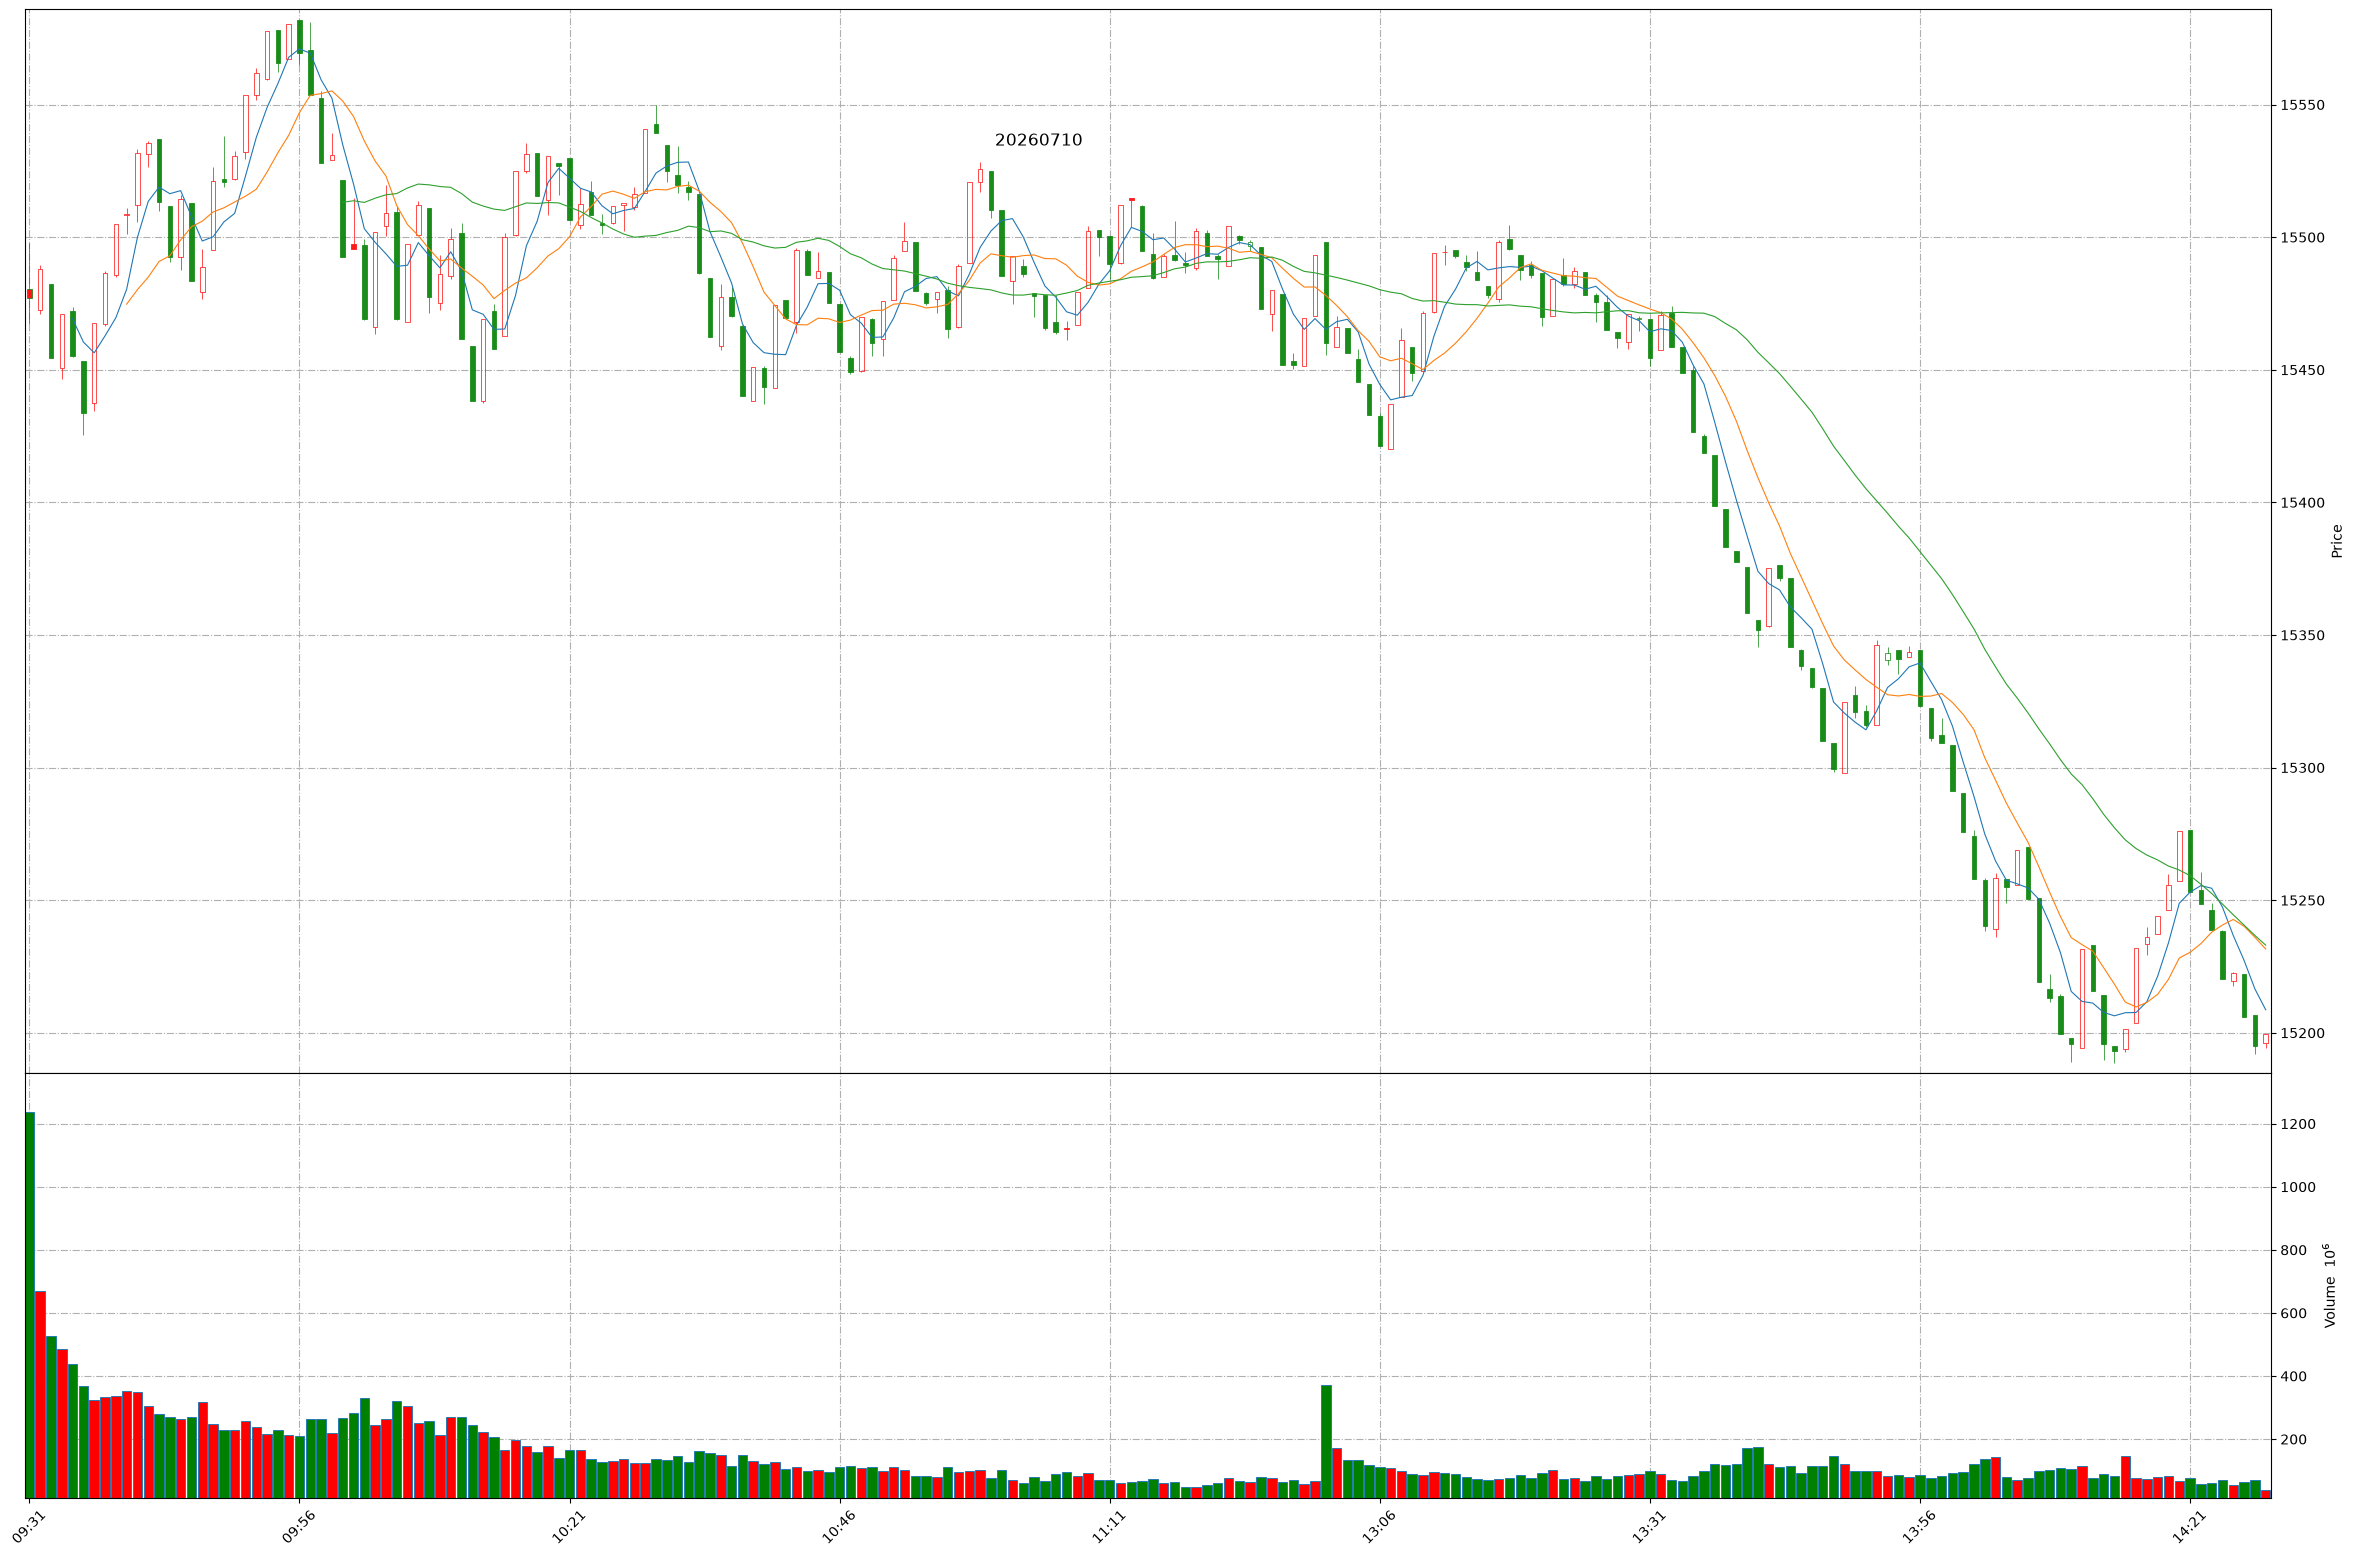
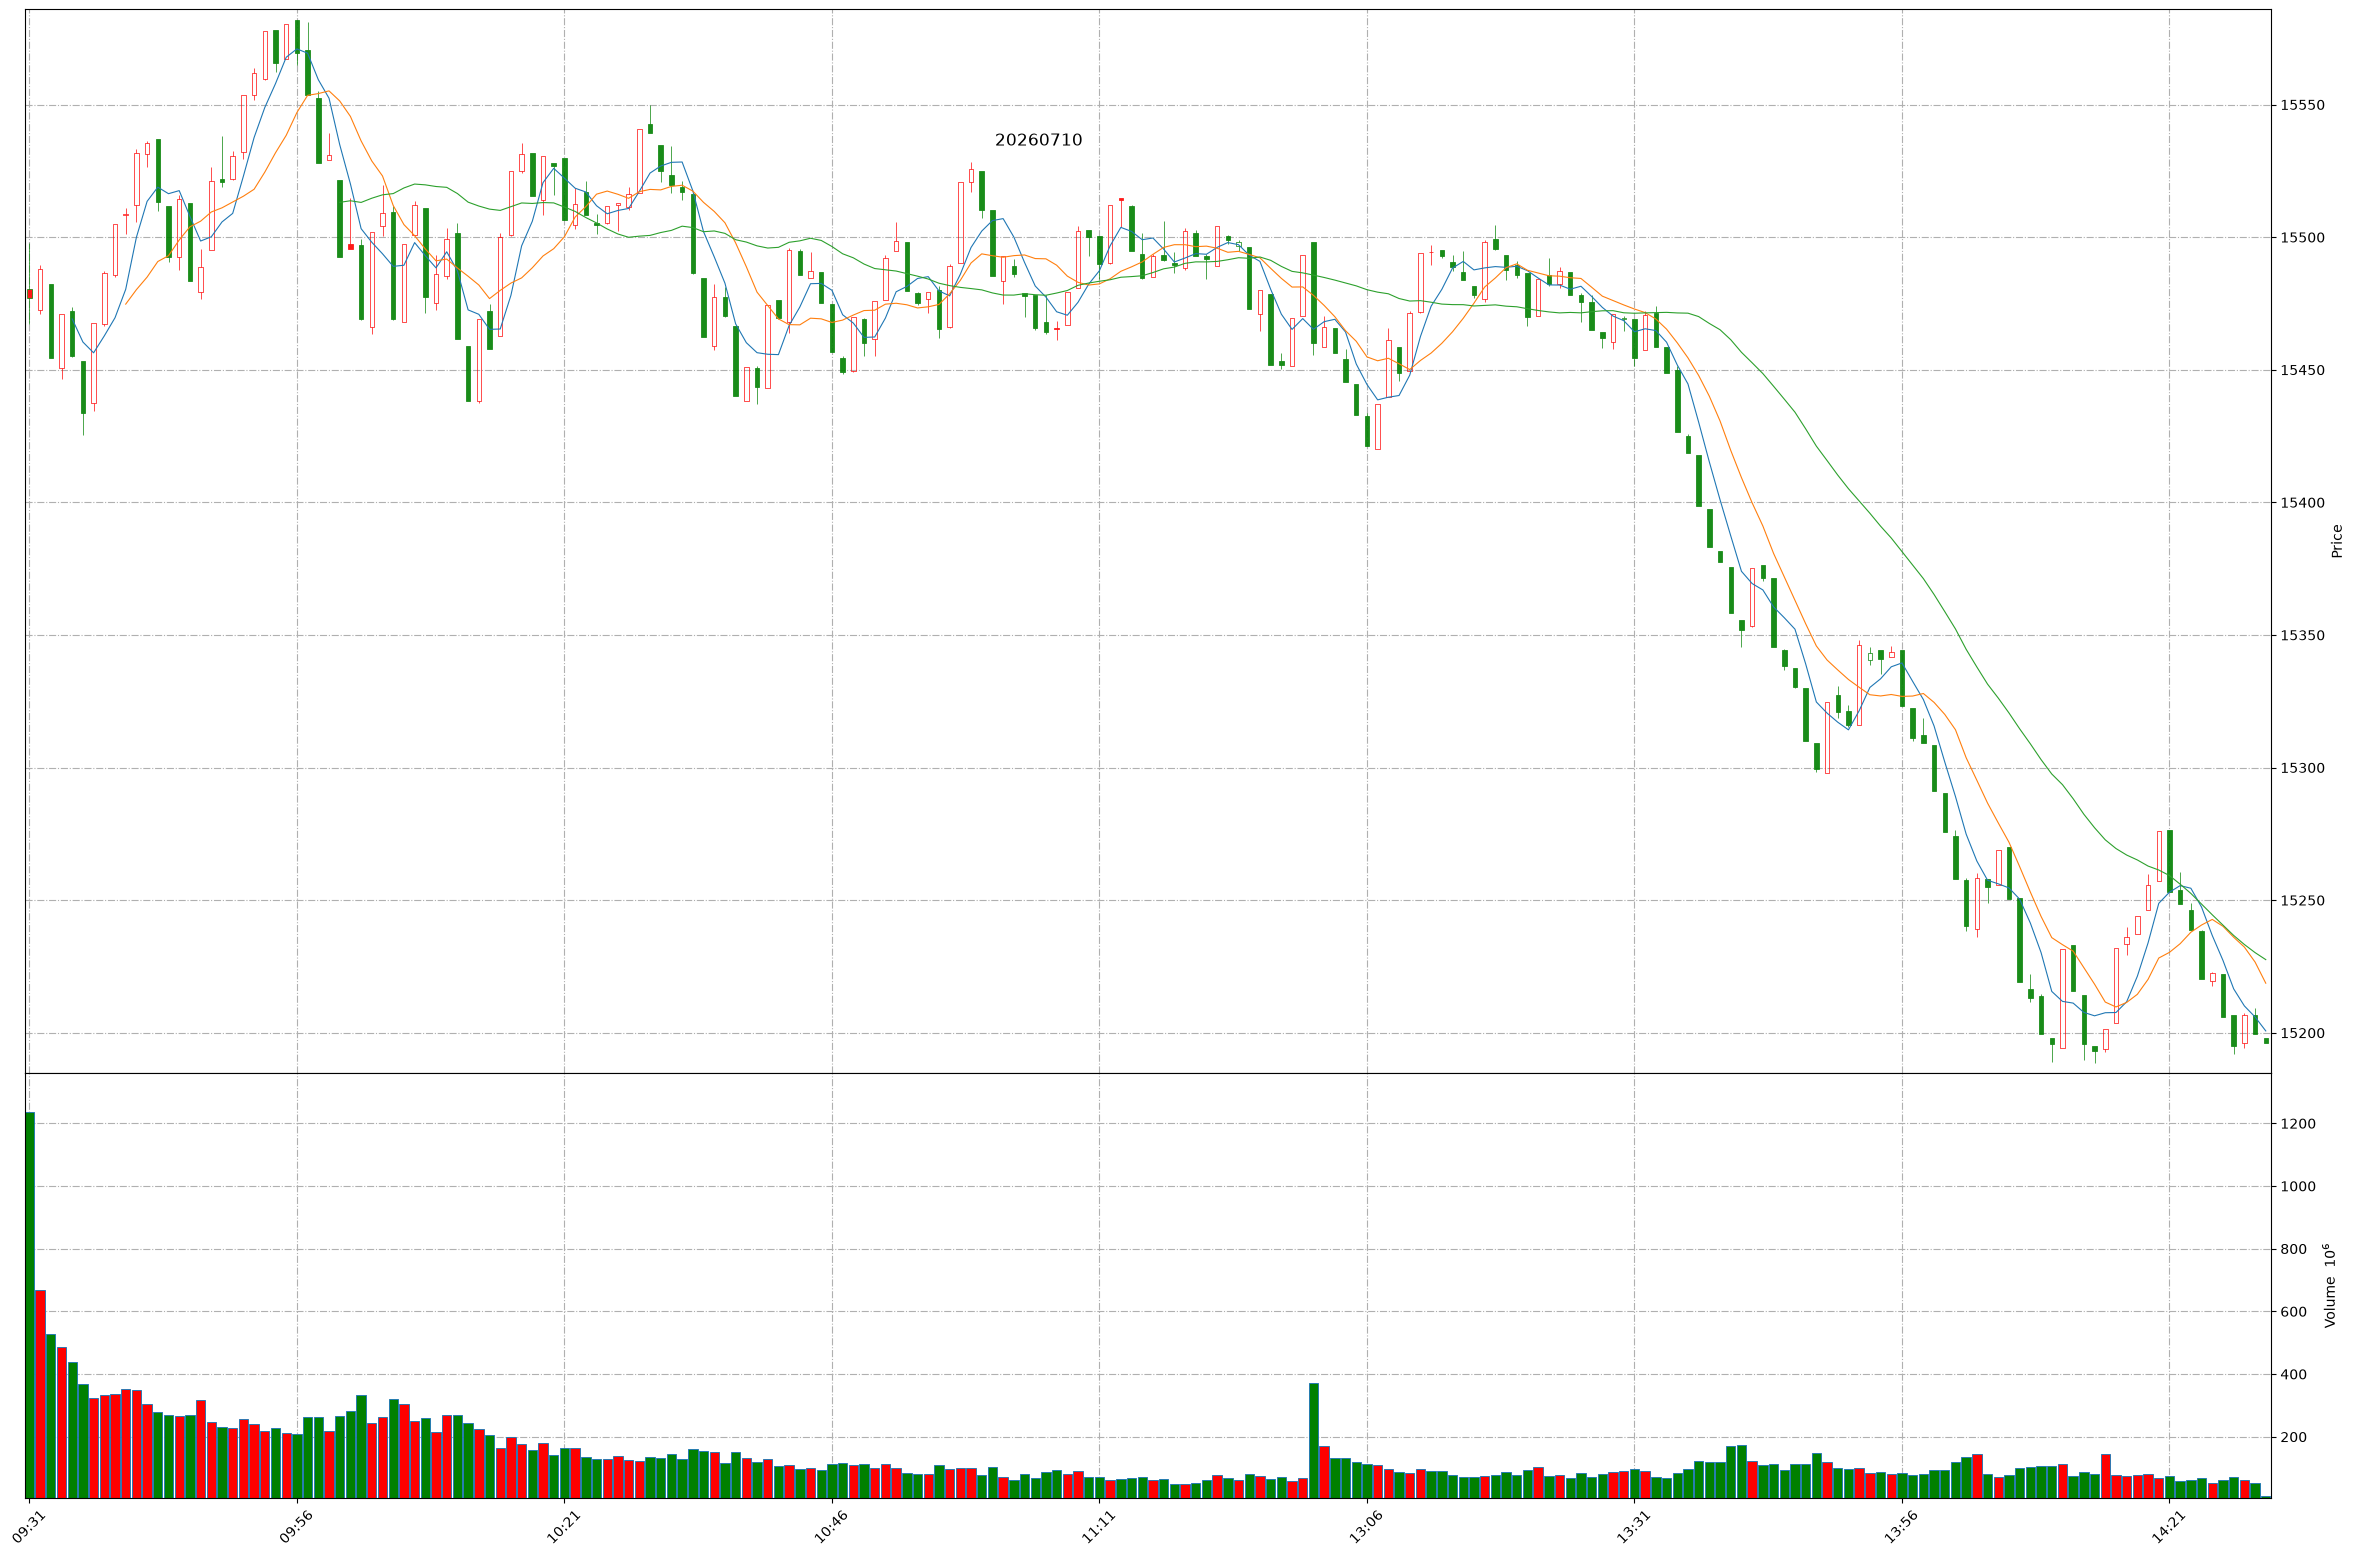
Github action update at 2026-07-10 14:29:27.

diff --git a/README.md b/README.md
@@ -1,11 +1,11 @@
 
 # Daily-A-share-market-quotes 每日 A 股指数（5min 更新）- 20260710
 
-### 上证指数 20260710 14:27
+### 上证指数 20260710 14:29
 ![](./fig/2026/7/20260710-sh000001.png)
 
-### 深证成指 20260710 14:27
+### 深证成指 20260710 14:29
 ![](./fig/2026/7/20260710-sz399001.png)
 
-### 北证50 20260710 14:27
+### 北证50 20260710 14:29
 ![](./fig/2026/7/20260710-bj899050.png)
